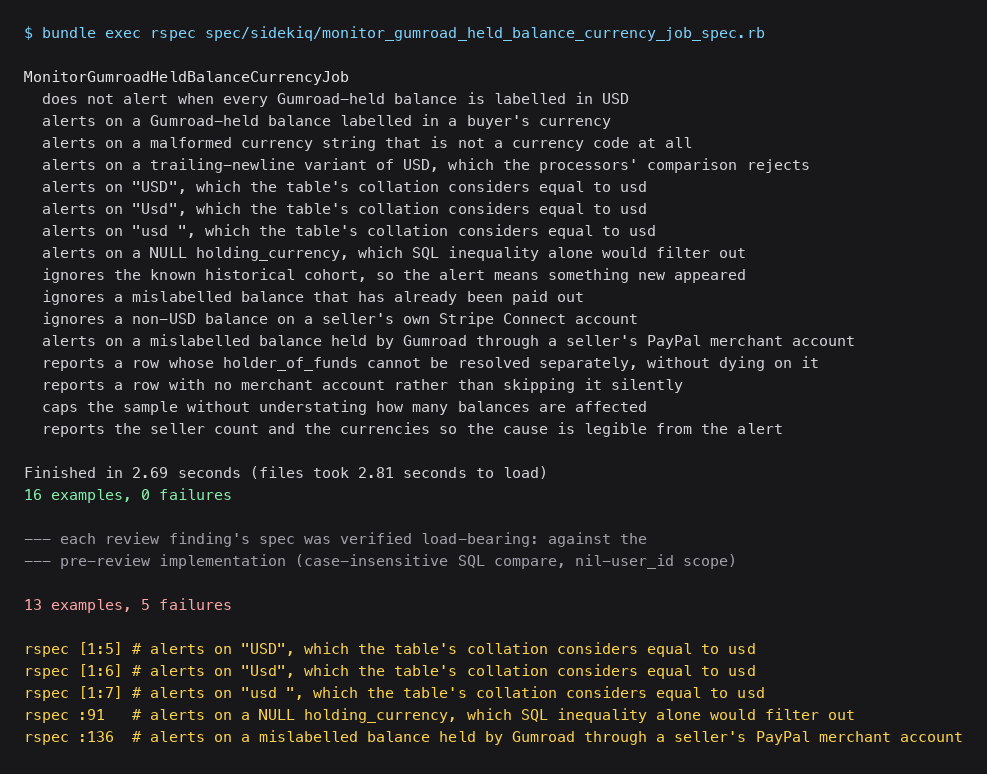
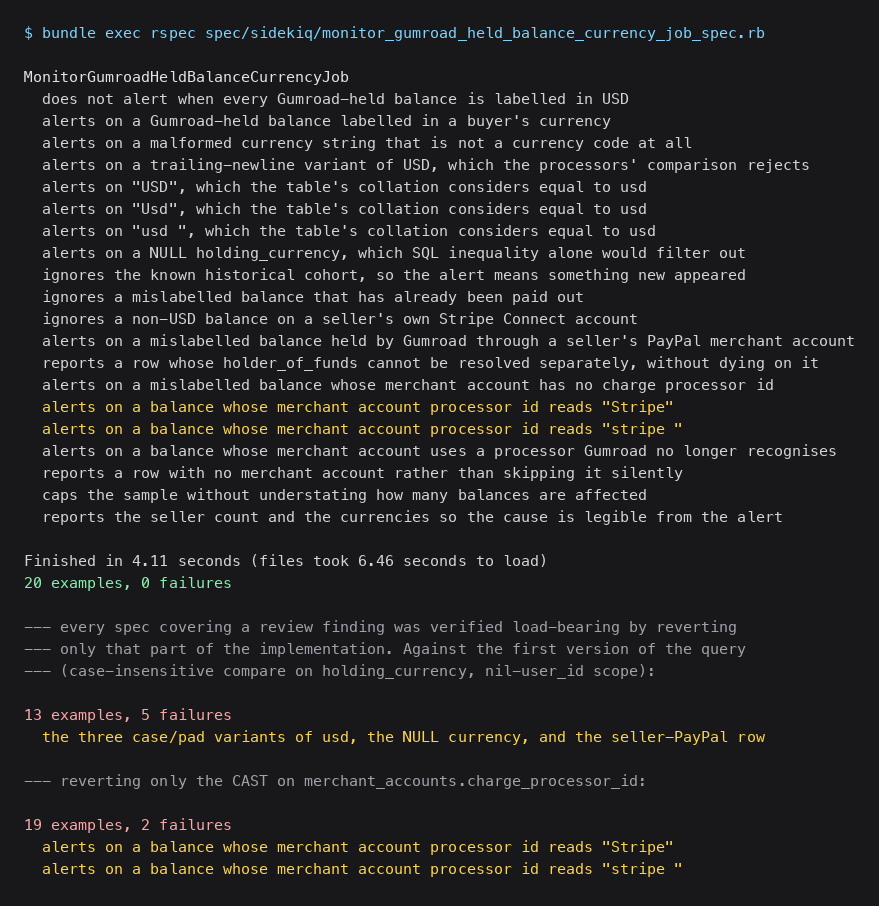
Cover the removed charge processors production actually carries
Reading merchant_accounts on the production replica to confirm the exclusion
still worked turned up two processor ids ChargeProcessor no longer recognises:
app_store and google_play. holder_of_funds treats an unrecognised processor as
Gumroad-held, on the documented assumption that we hold the funds for removed
processors, so a mislabelled balance on one of those accounts blocks payouts like
any other and the query has to keep it. It does; there was no spec saying so.

The same read confirms the exclusion is still doing its job after the binary
comparison landed: 434 candidate rows without it, 0 with it. It also shows why the
binary comparison costs nothing in practice -- all 1,382,120 stripe rows store the
exact lowercase literal, so an exact-binary count and a collated count agree. The
CAST is there for the row that does not follow that pattern, which is the row this
monitor exists to catch.

diff --git a/spec/sidekiq/monitor_gumroad_held_balance_currency_job_spec.rb b/spec/sidekiq/monitor_gumroad_held_balance_currency_job_spec.rb
@@ -204,6 +204,24 @@ describe MonitorGumroadHeldBalanceCurrencyJob do
     end
   end
 
+  # Production carries merchant accounts on processor ids that ChargeProcessor no longer
+  # recognises (app_store, google_play). holder_of_funds treats those as Gumroad-held on the
+  # documented assumption that we hold the funds for removed processors, so a mislabelled
+  # balance on one blocks payouts and the query must keep it.
+  it "alerts on a balance whose merchant account uses a processor Gumroad no longer recognises" do
+    account = create(:merchant_account_paypal, user: create(:user))
+    account.update_column(:charge_processor_id, "app_store")
+    balance = travel_to(after_baseline) do
+      create(:balance, merchant_account: account, holding_currency: Currency::EUR)
+    end
+
+    described_class.new.perform
+
+    expect(ErrorNotifier).to have_received(:notify).with(
+      anything, hash_including(sample: [hash_including(balance_id: balance.id)])
+    )
+  end
+
   # merchant_account_id is nullable, so a row can exist with nothing to resolve. Such a row
   # cannot be judged either way and must not be silently dropped.
   it "reports a row with no merchant account rather than skipping it silently" do
